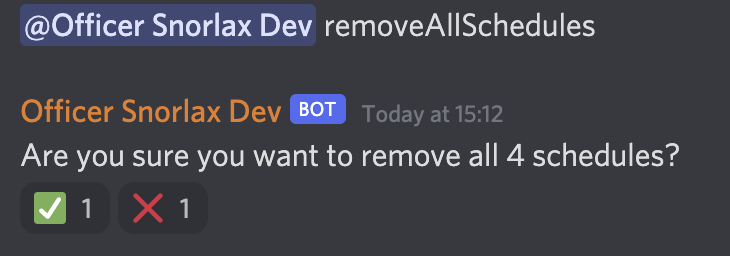
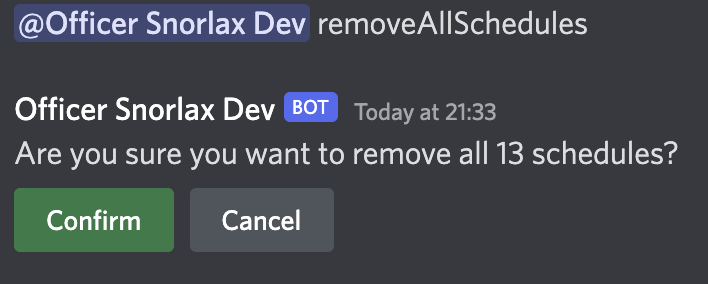
Updated README.md

Changed region(s): [[0.0, 0.3125, 0.9633, 0.9062], [0.0, 0.0, 0.839, 0.1875]]

diff --git a/README.md b/README.md
@@ -12,15 +12,18 @@ It seems to do the job but undoubtedly could be done much better!
 It is for this reason that I am not yet generally using an invite link for a hosted instance, and rather made the code public for people to self-host if they wish.
 But if you are interested in using a hosted instance please find me on the Sydney Pokemon Go server.
 
-This is yet to be updated to use discord.py >= 2.0, so threads and slash commands are not supported.
+This version supports `discord.py` v2.0 however it only contains all the features that were present in Snorlax v0.2.0. Slash commands are coming!
 
 ## Requirements
 
-* Python 3.5.3+ (tested on 3.8.5)
-* discord.py > 1.6.0, < 2.0
+* Python 3.9+
+* discord.py >= 2.0
 * pandas > 1.1.0
+* python-dotenv == 0.20.0
+* alembic == 1.8.0
+* aiosqlite == 0.17.0
 
-There is a requirements.txt file to install the dependancies from:
+There is a requirements.txt file to install the dependencies from:
 ```
 pip install -r requirements.txt
 ```
@@ -33,22 +36,30 @@ pip install -r requirements.txt
 
 3. Checkout the `main` branch.
 
-```
-git checkout main
-```
+    ```
+    git checkout main
+    ```
 
-4. Initialise the sqlite3 database using the initdb.py script:
-```
-python initdb.py
-```
-this will create `database.db`.
+4. Copy the `alembic.ini.template` file to `alembic.ini` and edit line `58` by replacing "ENTER DATABASE HERE!" with your intended database name, e.g.
+
+    ```
+    sqlalchemy.url = sqlite:///database.db
+    ```
+
+    and then run:
+
+    ```
+    alembic upgrade head
+    ```
+
+    which will create the database.
 
 5. Copy the `.env_template` to `.env` and proceed to enter your settings.
 
 6. Run the bot with:
-```
-python bot.py
-```
+    ```
+    python bot.py
+    ```
 
 ## Permissions Required
 
@@ -155,14 +166,16 @@ To set this up:
   1. Create a voice channel and make sure the permissions are so that no one can connect to it.
   2. Copy the ID of the voice channel created.
   3. Enter the following command in Discord in the Snorlax admin channel, replacing ID with the channel ID copied (the `<#>` is needed in this case):
-    ```
-    @Officer Snorlax setTimeChannel <#ID>
-    ```
+      ```
+      @Officer Snorlax setTimeChannel <#ID>
+      ```
 
 The voice channel name will now be updated every 10 minutes and will look like the example below.
 
 ![setTimeChannel](/screenshots/setTimeChannel.png)
 ![Time Example](/screenshots/time_display_example.png)
+
+Note that Snorlax should take care of the permissions of the voice channel.
 
 ## Schedule Behaviour
 
@@ -186,7 +199,15 @@ A summary of all created schedules can be
 It works by toggling the `@everyone` role on the channel to `deny` for closure and `neutral` for open. 
 The bot will check if the channel is already closed or opening before applying the change, so it won't attempt to close a channel already closed for example.
 
+When creating the schedule Snorlax will check that it has the correct permissions on the respective channel to implement the schedule.
+
 ![CloseAndOpen](/screenshots/CloseAndOpen.png)
+
+### Roles Not Affected By Schedule
+
+When creating the schedule, Snorlax will check if any roles have an explicit send message permission. This would mean that the schedule will have no effect for these roles. These will be communicated via a warning message upon creation like that shown below.
+
+![ScheduleRolesWarning](/screenshots/SchedulesRolesWarning.png)
 
 ### Warning Option
 
@@ -308,7 +329,7 @@ The `removeAllSchedules` command will ask for confirmation before processing req
 
 ![removeAllSchedules](/screenshots/remove_all_confirmation.png)
 
-Click on the green tick emoji to confirm the deletion, or the red cross to cancel.
+Click on the `Confirm` to confirm the deletion, or the `Cancel` button to cancel. The command will timeout after 1 minute.
 
 ### Manual Open and Closing
 
